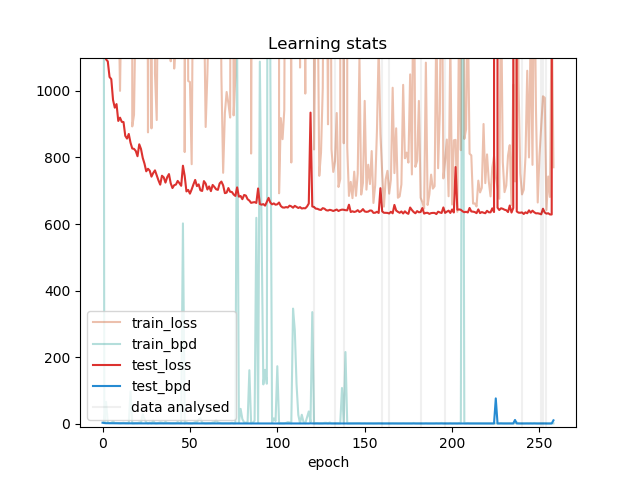
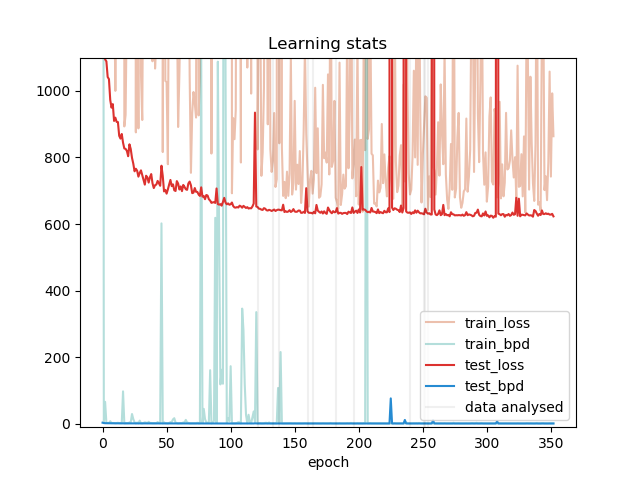
plots.

diff --git a/train.py b/train.py
@@ -46,12 +46,13 @@ def main(args):
         transform_train = transforms.Compose([
             transforms.RandomHorizontalFlip(),
             transforms.CenterCrop(176),
-            #transforms.Resize(size=args.resize_hw),
+            # TODO: add conditional based on args.resize_hw_
+            transforms.Resize(size=args.resize_hw),
             transforms.ToTensor()
         ])
         transform_test = transforms.Compose([
             transforms.CenterCrop(176),
-            #transforms.Resize(size=args.resize_hw),
+            transforms.Resize(size=args.resize_hw),
             transforms.ToTensor()
         ])
         target_type = ['attr', 'bbox', 'landmarks']
@@ -112,7 +113,7 @@ def main(args):
 
     for epoch in range(start_epoch, start_epoch + args.num_epochs):
         train_stats = train(epoch, net, trainloader, device, optimizer, loss_fn, args.max_grad_norm)
-        test_settings = filter_args(args.__dict__, fields = ['num_samples', 'dir_samples', 'in_channels'])
+        test_settings = filter_args(args.__dict__, fields = ['num_samples', 'dir_samples', 'in_channels', 'resize_hw'])
         test_settings = {**test_settings, **train_stats} # merge dicts.
         test(epoch, net, testloader, device, loss_fn, **test_settings)
 
@@ -146,7 +147,7 @@ def save_imgrid(tensor, name):
     torchvision.utils.save_image(grid, name)
     return
 
-def sample(net, batch_size, in_channels, device):
+def sample(net, num_samples, in_channels, device, resize_hw=None):
     """Sample from RealNVP model.
 
     Args:
@@ -154,11 +155,14 @@ def sample(net, batch_size, in_channels, device):
         batch_size (int): Number of samples to generate.
         device (torch.device): Device to use.
     """
-    side_size = 28 if in_channels == 1 else 176# debatable.. but ok for now.
-    z = torch.randn((batch_size, in_channels, side_size, side_size), dtype=torch.float32, device=device) #changed 3 -> 1
+    
+    if 'resize_hw' not in dir():
+        side_size = 28 if in_channels == 1 else 176 # XXX TOFIX XXX 
+    else:
+        side_size, side_size = resize_hw
+    z = torch.randn((num_samples, in_channels, side_size, side_size), dtype=torch.float32, device=device) #changed 3 -> 1
     x, _ = net(z, reverse=True)
     x = torch.sigmoid(x)
-
     return x, z
 
 
@@ -197,13 +201,12 @@ def test(epoch, net, testloader, device, loss_fn, **args):
         torch.save(state, save_dir + '/model.pth.tar')
         best_loss = loss_meter.avg
 
-    # Save samples and data
-    num_samples = args['num_samples']
-    in_channels = args['in_channels']
     # import ipdb; ipdb.set_trace()
-    images, latent_z = sample(net, num_samples, in_channels, device)
+    sample_fields = ['num_samples', 'in_channels', 'resize_hw']
+    images, latent_z = sample(net, device=device, **filter_args( args, fields=sample_fields ) )
 
     # plot x and z
+    num_samples = args['num_samples']
     images_concat = torchvision.utils.make_grid(images, nrow=int(num_samples ** 0.5), padding=2, pad_value=255)
     z_concat = torchvision.utils.make_grid(latent_z, nrow=int(num_samples ** 0.5), padding=2, pad_value=255)
     torchvision.utils.save_image(images_concat, save_dir+'/x.png')
@@ -288,21 +291,21 @@ if __name__ == '__main__':
     parser.add_argument('--max_grad_norm', type=float, default=100., help='Max gradient norm for clipping')
 
     ## logic for default values. (Would likely need to be determined from command line).
-    import ipdb; ipdb.set_trace()
     dataset_ = 'celeba' # 1. 'celeba', 'MNIST', 'CIFAR' (not tested)
     # dataset_ = 'celeba'
     net_ = 'densenet'  # 2.
-    dir_ = '/0_' + net_[:3] +'_'+dataset_ if dataset_ == 'celeba' else '/res_3-8-32' # 3.
+    dir_ = '/1_' + net_[:3] +'_'+dataset_ if dataset_ == 'celeba' else '/res_3-8-32' # 3.
     # only multi-gpu if celeba.resnet.
-    gpus_ = '[0, 1]' # if net_ == 'resnet' and dataset_=='celeba'  else '[0]' # 4.
+    gpus_ = '[0, 1]' if net_ == 'resnet' and dataset_=='celeba'  else '[0]' # 4.
     resume_ = True # 5.
 
-    # resize_hw = '(64, 64)'
+    resize_hw_ = '(64, 64)'
 
     if resume_:
         dir_model_ = find_last_model_relpath('data' + dir_)
-    # if 'resize_hw' not in dir():
-    # 	parser.add_argument('--resize_hw', default=resize_hw, type=eval)
+    if 'resize_hw_' in dir():
+        # TODO
+        parser.add_argument('--resize_hw', default=resize_hw_, type=eval)
 
     parser.add_argument('--resume', '-r', action='store_true', default=resume_, help='Resume from checkpoint')
     parser.add_argument('--gpu_ids', default=gpus_, type=eval, help='IDs of GPUs to use')
